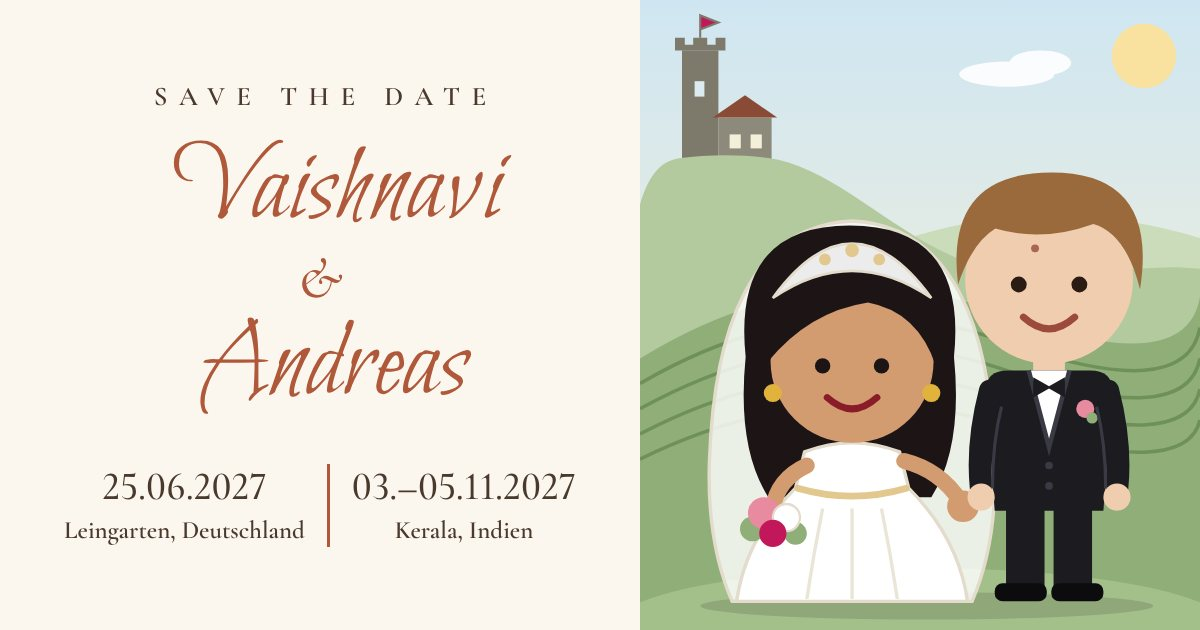
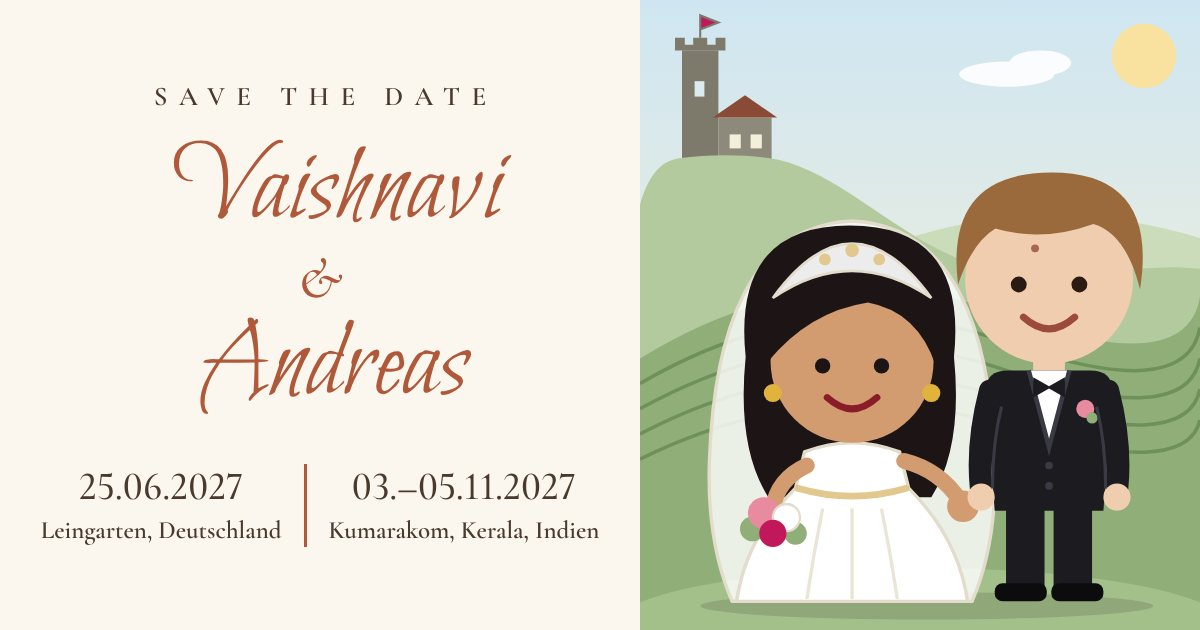
Add Kumarakom to the India location
Claude-Session: https://claude.ai/code/session_01Hin9P7LTknMWY8kcb46ew7

Changed region(s): [[0.0308, 0.754, 0.4933, 0.8746]]

diff --git a/de/index.html b/de/index.html
@@ -4,14 +4,14 @@
 <meta charset="utf-8">
 <meta name="viewport" content="width=device-width, initial-scale=1, viewport-fit=cover">
 <title>Save the Date · Vaishnavi &amp; Andreas</title>
-<meta name="description" content="Wir heiraten gleich zweimal und möchten beide Feste gemeinsam mit euch feiern. 25.06.2027 Leingarten · 03.–05.11.2027 Kerala, Indien">
+<meta name="description" content="Wir heiraten gleich zweimal und möchten beide Feste gemeinsam mit euch feiern. 25.06.2027 Leingarten · 03.–05.11.2027 Kumarakom, Kerala, Indien">
 <meta name="robots" content="noindex,nofollow">
 <meta name="theme-color" content="#fbf7ef">
 <meta property="og:type" content="website">
 <meta property="og:site_name" content="Vaishnavi &amp; Andreas">
 <meta property="og:locale" content="de_DE">
 <meta property="og:title" content="Save the Date · Vaishnavi &amp; Andreas">
-<meta property="og:description" content="Wir heiraten gleich zweimal und möchten beide Feste gemeinsam mit euch feiern. 25.06.2027 Leingarten · 03.–05.11.2027 Kerala, Indien">
+<meta property="og:description" content="Wir heiraten gleich zweimal und möchten beide Feste gemeinsam mit euch feiern. 25.06.2027 Leingarten · 03.–05.11.2027 Kumarakom, Kerala, Indien">
 <meta property="og:url" content="https://vaishnaviwedsandreas.github.io/de/">
 <meta property="og:image" content="https://vaishnaviwedsandreas.github.io/de/og.jpg">
 <meta property="og:image:secure_url" content="https://vaishnaviwedsandreas.github.io/de/og.jpg">
@@ -21,7 +21,7 @@
 <meta property="og:image:alt" content="Cartoon von Vaishnavi und Andreas in Hochzeitskleidung, mit den Terminen 25. Juni 2027 in Deutschland und 3. bis 5. November 2027 in Kerala, Indien">
 <meta name="twitter:card" content="summary_large_image">
 <meta name="twitter:title" content="Save the Date · Vaishnavi &amp; Andreas">
-<meta name="twitter:description" content="Wir heiraten gleich zweimal und möchten beide Feste gemeinsam mit euch feiern. 25.06.2027 Leingarten · 03.–05.11.2027 Kerala, Indien">
+<meta name="twitter:description" content="Wir heiraten gleich zweimal und möchten beide Feste gemeinsam mit euch feiern. 25.06.2027 Leingarten · 03.–05.11.2027 Kumarakom, Kerala, Indien">
 <meta name="twitter:image" content="https://vaishnaviwedsandreas.github.io/de/og.jpg">
 <link rel="icon" type="image/png" href="icon.png">
 <link rel="apple-touch-icon" href="icon.png">
@@ -83,7 +83,7 @@ body{margin:0;color:var(--ink);font:500 16px/1.3 var(--serif);font-variant-numer
 <main class="st">
 <p class="std">Save the Date</p>
 <h1 class="nm" data-w="48"><span>Vaishnavi</span> <em>&amp;</em> <span>Andreas</span></h1>
-<div class="dt"><p><b>25.06.2027</b> <span class="v">Heuchelberger Warte</span> <span class="w">Leingarten (ca. 16 Uhr)</span></p><p><b>03.–05.11.2027</b> <span class="v">Backwater Ripples</span> <span class="w">Kerala, Indien</span></p></div>
+<div class="dt"><p><b>25.06.2027</b> <span class="v">Heuchelberger Warte</span> <span class="w">Leingarten (ca. 16 Uhr)</span></p><p><b>03.–05.11.2027</b> <span class="v">Backwater Ripples</span> <span class="w">Kumarakom, Kerala, Indien</span></p></div>
 <div class="scn" role="button" tabindex="0" aria-label="Deutschland. Nach links wischen oder tippen, um die Hochzeit in Indien zu sehen." data-de="Deutschland. Nach links wischen oder tippen, um die Hochzeit in Indien zu sehen." data-in="Indien. Nach rechts wischen oder tippen, um zur Hochzeit in Deutschland zurückzukehren."><div class="w de" aria-hidden="true"><svg class="bg" viewBox="0 0 400 336" aria-hidden="true">
 <defs><linearGradient id="fds" x1="0" y1="0" x2="0" y2="1"><stop offset="0" stop-color="#cfe6f2"/><stop offset="1" stop-color="#f4efd9"/></linearGradient></defs>
 <rect width="400" height="336" fill="url(#fds)"/><circle cx="360" cy="40" r="23" fill="#f9e2a0"/>

diff --git a/index.html b/index.html
@@ -4,14 +4,14 @@
 <meta charset="utf-8">
 <meta name="viewport" content="width=device-width, initial-scale=1, viewport-fit=cover">
 <title>Save the Date · Vaishnavi &amp; Andreas</title>
-<meta name="description" content="We’re getting married twice, and we’d love to celebrate both weddings with you. 25.06.2027 Leingarten, Germany · 03–05.11.2027 Kerala, India">
+<meta name="description" content="We’re getting married twice, and we’d love to celebrate both weddings with you. 25.06.2027 Leingarten, Germany · 03–05.11.2027 Kumarakom, Kerala, India">
 <meta name="robots" content="noindex,nofollow">
 <meta name="theme-color" content="#fbf7ef">
 <meta property="og:type" content="website">
 <meta property="og:site_name" content="Vaishnavi &amp; Andreas">
 <meta property="og:locale" content="en_US">
 <meta property="og:title" content="Save the Date · Vaishnavi &amp; Andreas">
-<meta property="og:description" content="We’re getting married twice, and we’d love to celebrate both weddings with you. 25.06.2027 Leingarten, Germany · 03–05.11.2027 Kerala, India">
+<meta property="og:description" content="We’re getting married twice, and we’d love to celebrate both weddings with you. 25.06.2027 Leingarten, Germany · 03–05.11.2027 Kumarakom, Kerala, India">
 <meta property="og:url" content="https://vaishnaviwedsandreas.github.io/">
 <meta property="og:image" content="https://vaishnaviwedsandreas.github.io/og.jpg">
 <meta property="og:image:secure_url" content="https://vaishnaviwedsandreas.github.io/og.jpg">
@@ -21,7 +21,7 @@
 <meta property="og:image:alt" content="Cartoon of Vaishnavi and Andreas in wedding clothes, with the dates 25 June 2027 in Germany and 3 to 5 November 2027 in Kerala, India">
 <meta name="twitter:card" content="summary_large_image">
 <meta name="twitter:title" content="Save the Date · Vaishnavi &amp; Andreas">
-<meta name="twitter:description" content="We’re getting married twice, and we’d love to celebrate both weddings with you. 25.06.2027 Leingarten, Germany · 03–05.11.2027 Kerala, India">
+<meta name="twitter:description" content="We’re getting married twice, and we’d love to celebrate both weddings with you. 25.06.2027 Leingarten, Germany · 03–05.11.2027 Kumarakom, Kerala, India">
 <meta name="twitter:image" content="https://vaishnaviwedsandreas.github.io/og.jpg">
 <link rel="icon" type="image/png" href="icon.png">
 <link rel="apple-touch-icon" href="icon.png">
@@ -83,7 +83,7 @@ body{margin:0;color:var(--ink);font:500 16px/1.3 var(--serif);font-variant-numer
 <main class="st">
 <p class="std">Save the Date</p>
 <h1 class="nm" data-w="48"><span>Vaishnavi</span> <em>&amp;</em> <span>Andreas</span></h1>
-<div class="dt"><p><b>25.06.2027</b> <span class="v">Heuchelberger Warte</span> <span class="w">Leingarten (approx. 4 pm)</span></p><p><b>03–05.11.2027</b> <span class="v">Backwater Ripples</span> <span class="w">Kerala, India</span></p></div>
+<div class="dt"><p><b>25.06.2027</b> <span class="v">Heuchelberger Warte</span> <span class="w">Leingarten (approx. 4 pm)</span></p><p><b>03–05.11.2027</b> <span class="v">Backwater Ripples</span> <span class="w">Kumarakom, Kerala, India</span></p></div>
 <div class="scn" role="button" tabindex="0" aria-label="Germany. Swipe left or tap to see the wedding in India." data-de="Germany. Swipe left or tap to see the wedding in India." data-in="India. Swipe right or tap to go back to the wedding in Germany."><div class="w de" aria-hidden="true"><svg class="bg" viewBox="0 0 400 336" aria-hidden="true">
 <defs><linearGradient id="fds" x1="0" y1="0" x2="0" y2="1"><stop offset="0" stop-color="#cfe6f2"/><stop offset="1" stop-color="#f4efd9"/></linearGradient></defs>
 <rect width="400" height="336" fill="url(#fds)"/><circle cx="360" cy="40" r="23" fill="#f9e2a0"/>
